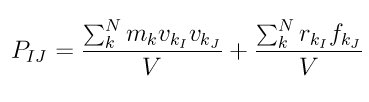
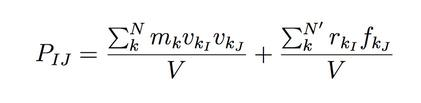
compute pressure doc change

Changed region(s): [[0.0298, 0.1765, 0.9837, 0.7647]]

diff --git a/src/USER-MISC/pair_agni.cpp b/src/USER-MISC/pair_agni.cpp
@@ -12,7 +12,7 @@
 ------------------------------------------------------------------------- */
 
 /* ----------------------------------------------------------------------
-   Contributing author: Axel Kohlmeyer (Temple U)
+   Contributing authors: Axel Kohlmeyer (Temple U), Venkatesh Botu
 ------------------------------------------------------------------------- */
 
 #include <math.h>

diff --git a/doc/src/Eqs/pressure.tex b/doc/src/Eqs/pressure.tex
@@ -3,7 +3,7 @@
 \begin{document}
 
 $$
-   P = \frac{N k_B T}{V} + \frac{\sum_{i}^{N} r_i \bullet f_i}{dV}
+   P = \frac{N k_B T}{V} + \frac{\sum_{i}^{N'} r_i \bullet f_i}{dV}
 $$
 
 \end{document}

diff --git a/doc/src/Eqs/pressure_tensor.tex b/doc/src/Eqs/pressure_tensor.tex
@@ -4,7 +4,7 @@
 
 $$
    P_{IJ} = \frac{\sum_{k}^{N} m_k v_{k_I} v_{k_J}}{V} + 
-   \frac{\sum_{k}^{N} r_{k_I} f_{k_J}}{V}
+   \frac{\sum_{k}^{N'} r_{k_I} f_{k_J}}{V}
 $$
 
 \end{document}
